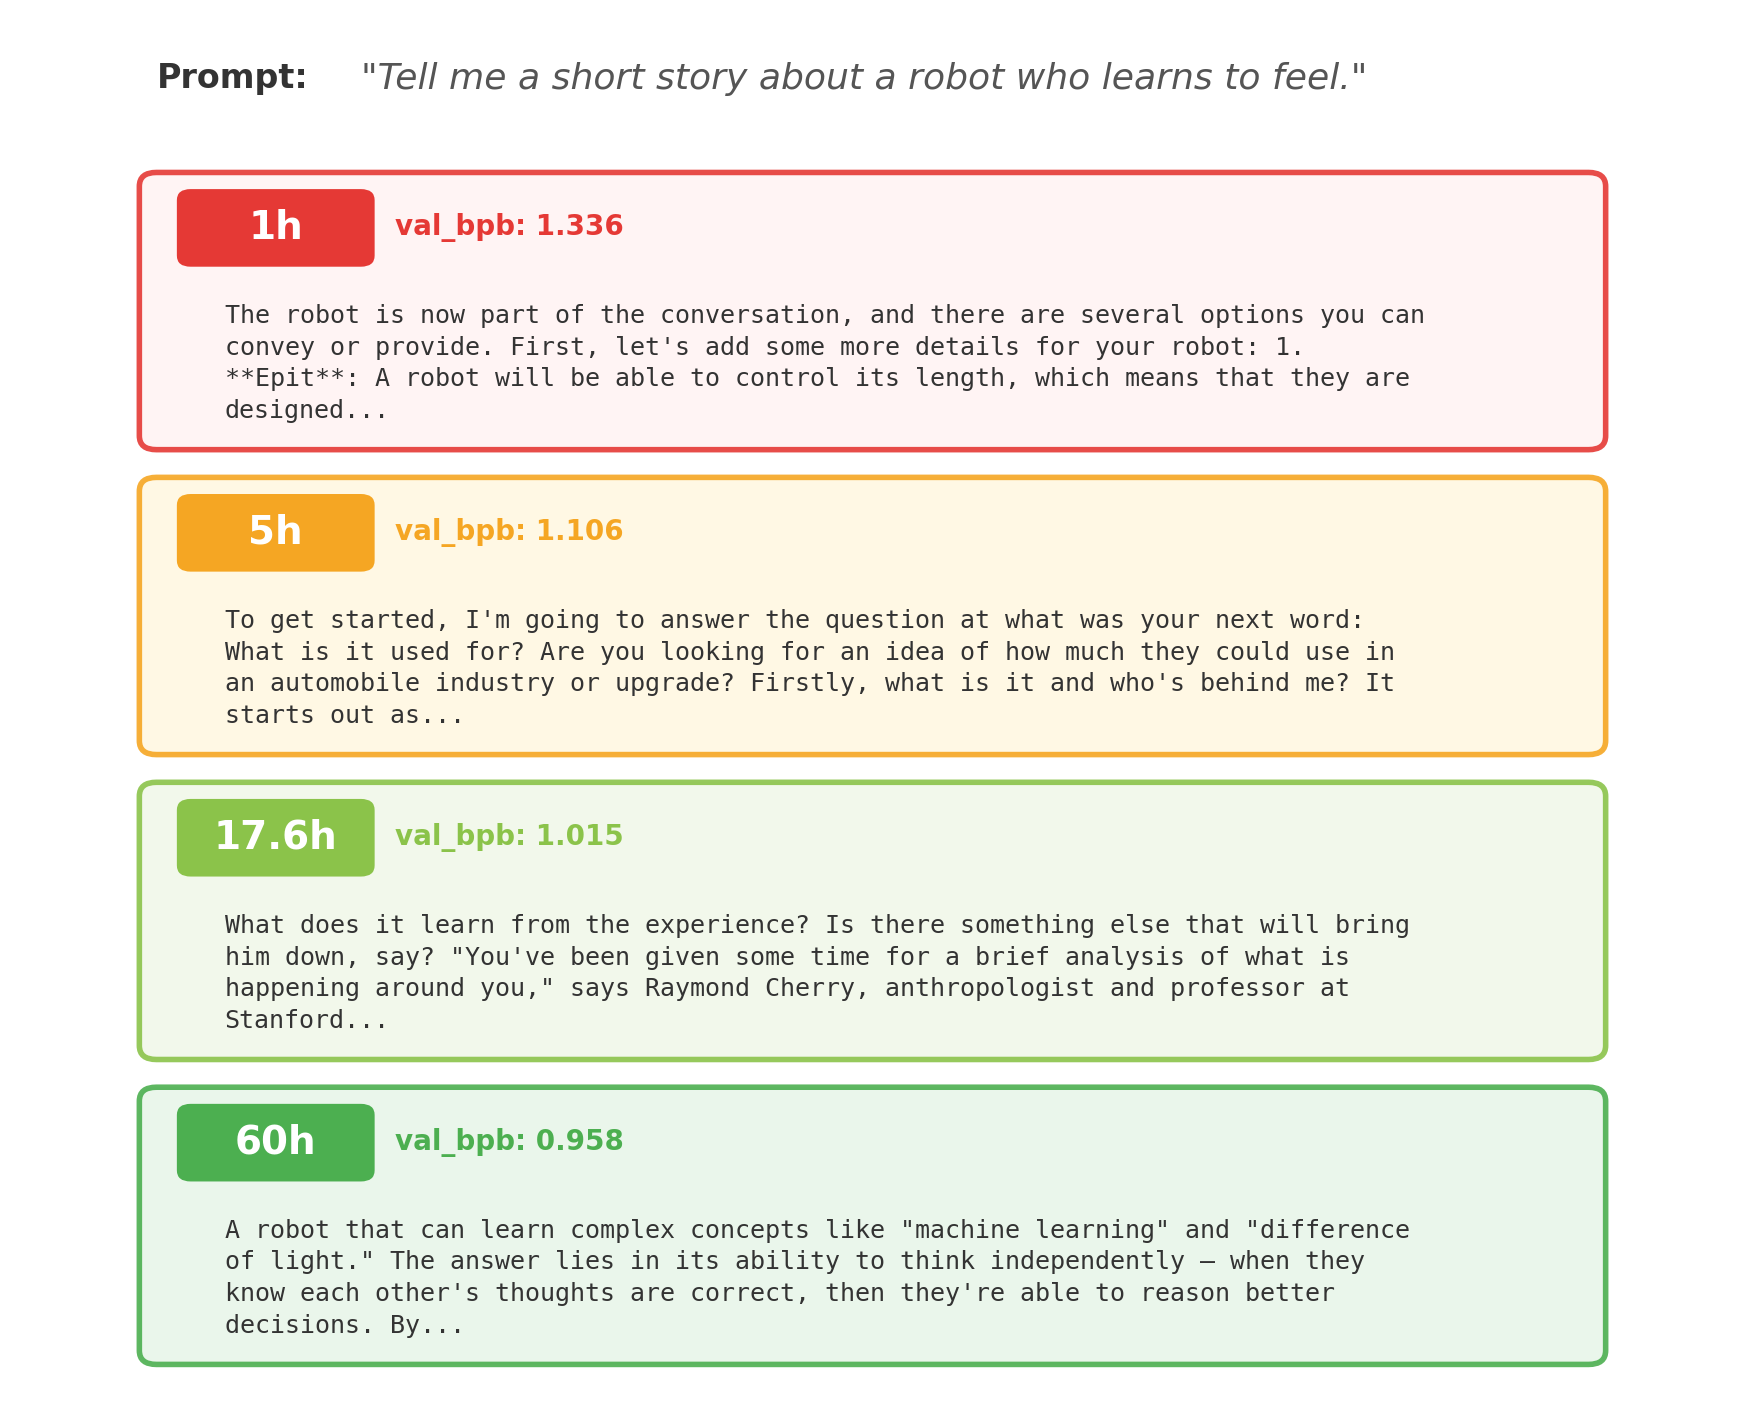
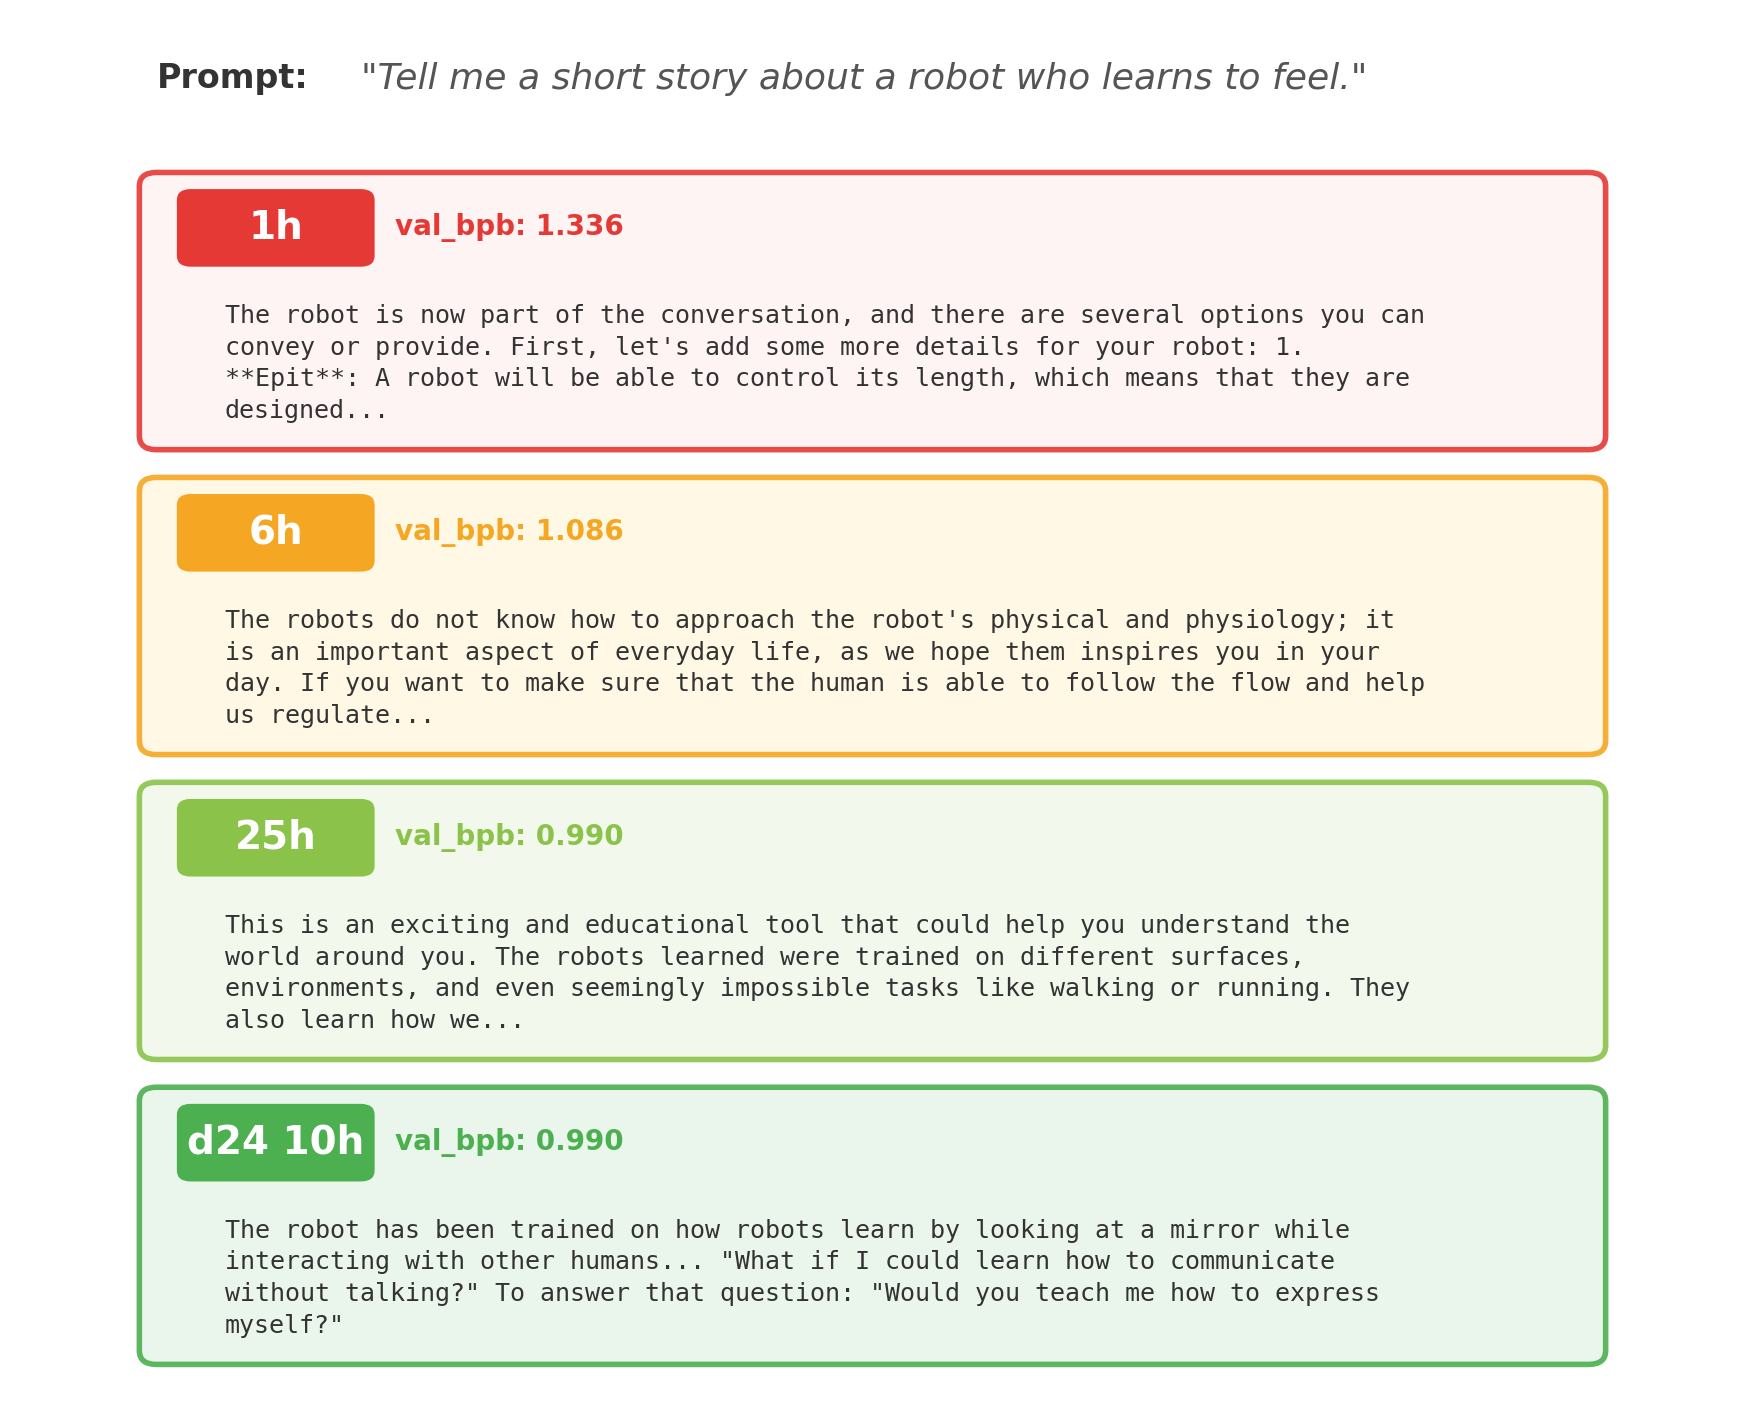
fix: visuals now include d24 entries
Fixed blog headers to match parser pattern. Updated generate_visuals.py
to handle (d24) suffix and label d24 data points distinctly. Progress
chart now shows d24 branch. Before/after cards show d24 responses.

diff --git a/generate_visuals.py b/generate_visuals.py
@@ -44,8 +44,8 @@ def parse_blog_entries():
         content = f.read()
 
     entries = []
-    # Split on entry headers: ## #N · date · Xh accumulated pretraining
-    parts = re.split(r'## #\d+ · .+ · (.+?) accumulated pretraining', content)
+    # Split on entry headers: ## #N · date · Xh accumulated pretraining [optional (dN) suffix]
+    parts = re.split(r'## #\d+ · .+ · (.+?) accumulated pretraining(?: \(d\d+\))?', content)
 
     for i in range(1, len(parts), 2):
         hours_str = parts[i].strip()  # e.g. "1.0h" or "7.0h"
@@ -57,9 +57,14 @@ def parse_blog_entries():
             continue
         val_bpb = float(bpb_match.group(1))
 
+        # Detect depth from body (default d16)
+        depth_match = re.search(r'depth=(\d+)', body)
+        depth = int(depth_match.group(1)) if depth_match else 16
+
         # Extract hours (keep float precision for non-integer hours like 14.5h)
         hours_float = float(hours_str.replace('h', ''))
-        hours_label = f'{hours_float:g}h'  # "7h" for 7.0, "14.5h" for 14.5
+        # For d24+, prefix with depth to distinguish from d16 hours
+        hours_label = f'd{depth} {hours_float:g}h' if depth > 16 else f'{hours_float:g}h'
 
         # Extract responses for each question
         responses = {}

diff --git a/blog.md b/blog.md
@@ -498,7 +498,7 @@ val_bpb dropped to 0.958 (from 0.992, a 3.4% improvement) — the largest single
 
 ---
 
-## #14 · 2026-03-28 · Progressive depth growth: d16→d24 + 5h pretraining
+## #14 · 2026-03-28 · 5h accumulated pretraining (d24)
 
 **val_bpb**: 0.978753 · **model**: depth=24, 1024-dim · ~419M params · 5h pretraining (grown from d16 60h)
 
@@ -530,7 +530,7 @@ The d24 model produces notably longer and more structured responses (headers, bu
 
 ---
 
-## #15 · 2026-03-28 · d24 10h pretraining + full-layer SFT fix
+## #15 · 2026-03-28 · 10h accumulated pretraining (d24)
 
 **val_bpb**: 0.990123 · **model**: depth=24, 1024-dim · ~419M params · 10h pretraining
 
